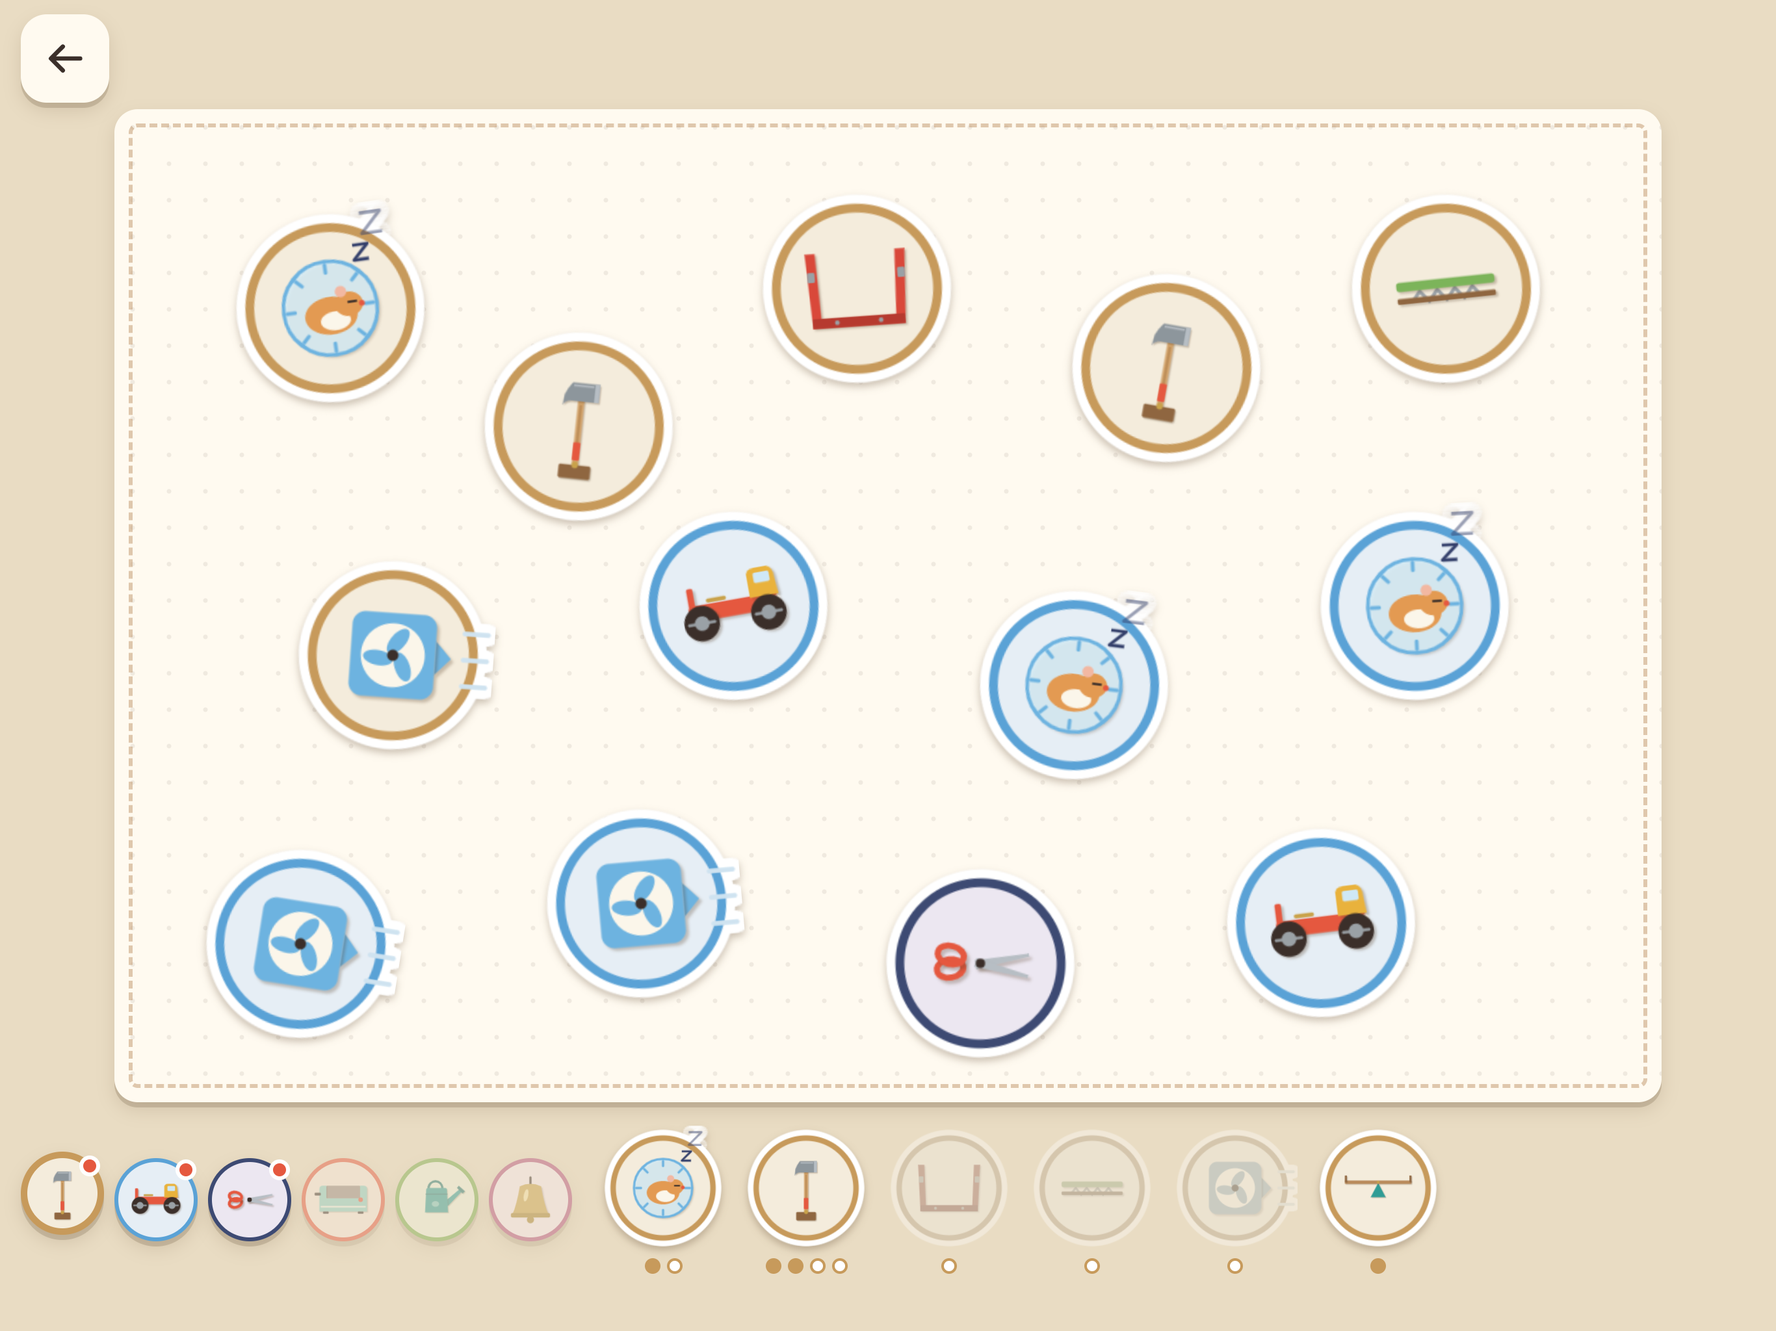
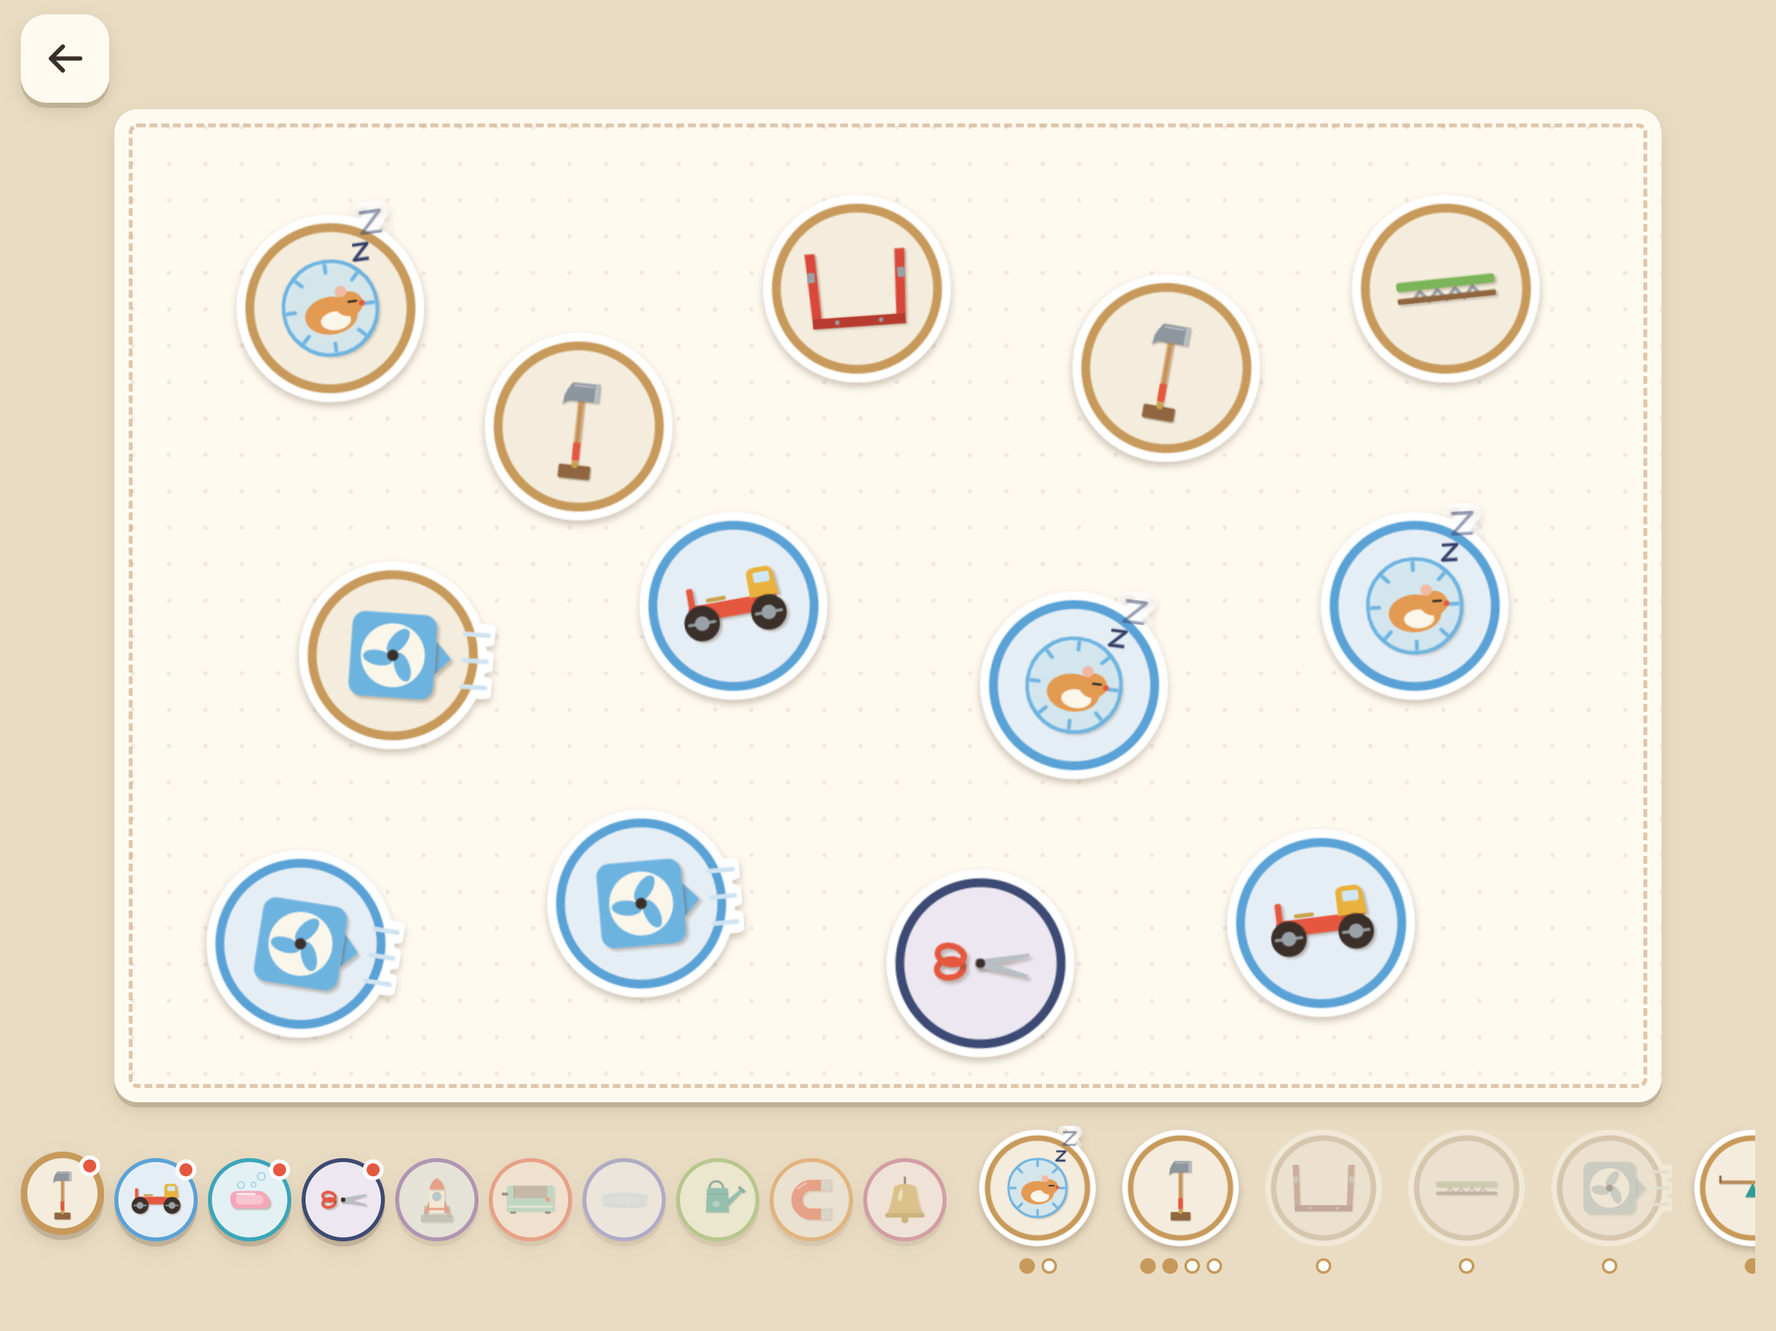
Play timer, and store screenshots for ten rooms and iPhone
- Play timer (Milestone 7 safety): grown-ups pick 15, 20 or 30 minutes in
  Safety. No countdown is shown; when time is up the machine finishes its run
  and the game goes to sleep with a lullaby. Only the PIN (or the hold without
  one) wakes it. Counts only on-screen play, survives a reload, and restarts
  after an hour away. Logic in src/ui/timer.ts with tests.
- Screenshots retaken with the ten rooms, a Space room shot, and a new
  6.9-inch iPhone set (2868x1320) for the App Store.

Changed region(s): [[0.1245, 0.8438, 0.84, 0.9688], [0.8712, 0.8438, 0.9956, 0.9375]]

diff --git a/src/main.ts b/src/main.ts
@@ -14,6 +14,7 @@ import { ScreenLock } from './app-lock';
 import { BOOK_KEY, looseStickers, renderBook } from './ui/book';
 import { Pin } from './ui/pin';
 import { askPin, newPin } from './ui/pinpad';
+import { LIMITS, PlayTimer } from './ui/timer';
 import { guessPlatform, lockGuideHtml, wireLockGuide } from './parents/lock';
 
 const $ = <T extends HTMLElement>(id: string) => document.getElementById(id) as T;
@@ -553,6 +554,7 @@ function buildGrownups() {
     <section class="gu-sec" data-sec="safety">
       <h3>Safety</h3>
       <div id="gu-pin" class="gu-card"></div>
+      <div id="gu-timer" class="gu-card"></div>
       <div class="gu-card" id="gu-lock">
         <h4>Keep your child inside the game</h4>
         <p>No app can stop a child swiping out to the home screen. The tablet itself can: lock it to Bumpity before you hand it over, and only your passcode unlocks it.</p>
@@ -689,6 +691,7 @@ async function openGrownups(sec?: GuSec) {
 function showGrownups(sec?: GuSec) {
   if (!guBuilt) buildGrownups();
   renderSafety();
+  renderTimer();
   renderMade();
   $('map').classList.add('hidden');
   $('grownups').classList.remove('hidden');
@@ -706,11 +709,24 @@ function renderSafety() {
        <p>Right now this corner opens with a press-and-hold on the grown-ups' button, which a child can learn. A 4-digit PIN they don't know keeps them out of here.</p>
        <div class="acts"><button class="text-btn primary" id="pin-set">Set a PIN</button></div>`;
   box.insertAdjacentHTML('beforeend', '<p class="small">The PIN keeps a young child out of the grown-ups\' corner. It isn\'t a lock against grown-ups: it is kept only on this device, and clearing the browser\'s data removes it.</p>');
-  const done = () => { renderSafety(); syncGuButton(); };
+  const done = () => { renderSafety(); renderTimer(); syncGuButton(); };
   const on = (id: string, fn: () => Promise<unknown>) => { const b = document.getElementById(id); if (b) b.onclick = () => fn().then(done); };
   on('pin-set', () => newPin(pin));
   on('pin-change', async () => { if (await askPin(pin, 'Type the PIN you have now')) await newPin(pin, 'Choose a new PIN'); });
   on('pin-off', async () => { if (await askPin(pin, 'Turn the PIN off?')) pin.clear(); });
+}
+
+/** The play timer card in Safety: pick a limit. */
+function renderTimer() {
+  const box = $('gu-timer');
+  const names: Record<number, string> = { 0: 'No limit', 15: '15 minutes', 20: '20 minutes', 30: '30 minutes' };
+  box.innerHTML = `<h4>Play timer <span class="tag${timer.limit ? ' on' : ''}">${timer.limit ? names[timer.limit] : 'Off'}</span></h4>
+    <p>When the time is up, the hamster yawns, the machine finishes its run, and Bumpity goes to sleep with a lullaby. There's no countdown on screen to worry about. Only a grown-up can wake it, from the button in the corner of the sleeping screen.</p>
+    <div class="acts">${LIMITS.map((m) => `<button class="text-btn${m === timer.limit ? ' primary' : ''}" data-limit="${m}">${names[m]}</button>`).join('')}</div>
+    <p class="small">Play time counts only while Bumpity is on the screen. After an hour away it starts again from zero.${pin.isSet ? '' : ' <b>Set a PIN too:</b> without one, the sleeping screen wakes with a press-and-hold, which a child can learn.'}</p>`;
+  box.querySelectorAll<HTMLButtonElement>('[data-limit]').forEach((b) => {
+    b.onclick = () => { timer.setLimit(Number(b.dataset.limit)); renderTimer(); };
+  });
 }
 
 /** The grown-ups' button says "press & hold" only while there's no PIN. */
@@ -1094,6 +1110,59 @@ function startLevel(i: number, custom?: Level, start: Placement[] = []) {
 // ---------- wiring ----------
 document.addEventListener('pointerdown', unlockAudio, { capture: true });
 wireHold($('btn-grownups'), () => { void openGrownups(); }, () => pin.isSet);
+
+// ---------- play timer ----------
+const timer = new PlayTimer();
+const NIGHT = `<svg viewBox="0 0 320 200" aria-hidden="true">
+  <path d="M232 34a38 38 0 1 0 30 62a32 32 0 1 1-30-62z" class="moon"/>
+  ${[[40, 30], [90, 60], [150, 24], [290, 40], [60, 110], [300, 130], [190, 70]].map(([x, y]) => `<circle cx="${x}" cy="${y}" r="3" class="twinkle"/>`).join('')}
+  <ellipse cx="160" cy="176" rx="120" ry="14" class="bed"/>
+  <circle cx="160" cy="148" r="30" class="ball"/>
+  <path d="M146 150q5 4 10 0M164 150q5 4 10 0" class="eye"/>
+  <text x="196" y="118" class="z1">z</text><text x="212" y="98" class="z2">z</text><text x="230" y="76" class="z3">Z</text>
+</svg>`;
+function buildSleep(): HTMLElement {
+  const el = document.createElement('section');
+  el.id = 'sleep';
+  el.className = 'hidden';
+  el.setAttribute('aria-label', 'Bumpity is asleep');
+  el.innerHTML = `${NIGHT}<button id="btn-wake" class="grownups-btn" aria-label="For grown-ups: wake Bumpity">
+    <span class="ring"></span>
+    <svg viewBox="0 0 48 48"><circle cx="17" cy="13" r="5" /><path d="M8 40V28a9 9 0 0 1 18 0v12" /><circle cx="34" cy="22" r="3.5" /><path d="M28 40v-7a6 6 0 0 1 12 0v7" /></svg>
+    <small>Grown-ups</small></button>`;
+  document.body.append(el);
+  wireHold(el.querySelector<HTMLElement>('#btn-wake')!, async () => {
+    if (!(await askPin(pin, 'Wake Bumpity?'))) return;
+    timer.wake();
+    el.classList.add('hidden');
+    showMap();
+  }, () => pin.isSet);
+  return el;
+}
+let sleepEl: HTMLElement | null = null;
+let yawned = false;
+function goToSleep(quiet = false) {
+  timer.sleep();
+  sleepEl ??= buildSleep();
+  sleepEl.classList.remove('hidden');
+  game?.destroy();
+  game = null;
+  stopSpeaking();
+  if (!quiet) { sfx.lullaby(); speak('Bumpity is sleepy. Time for a rest. Night night!'); }
+}
+function timerTick() {
+  const onScreen = document.visibilityState === 'visible' && $('grownups').classList.contains('hidden') && !timer.asleep;
+  if (onScreen) timer.tick(1);
+  if (!timer.timeUp || timer.asleep) return;
+  // Time is up: a yawn first, then sleep as soon as no machine is running.
+  if (!yawned) { yawned = true; sfx.yawn(); }
+  if (game?.mode === 'run') return;
+  yawned = false;
+  goToSleep();
+}
+setInterval(timerTick, 1000);
+document.addEventListener('visibilitychange', () => { if (document.visibilityState === 'visible') timer.welcomeBack(); });
+if (timer.asleep) goToSleep(true);
 syncGuButton();
 $('btn-gu-close').onclick = hideGrownups;
 $('btn-book').onclick = showBook;

diff --git a/src/ui/timer.ts b/src/ui/timer.ts
@@ -1,0 +1,74 @@
+// The play timer. A grown-up picks a limit (15, 20 or 30 minutes, or none). Play time counts
+// only while the game is on screen and the grown-ups' corner is closed. When it runs out the
+// game goes to sleep, and only a grown-up (the PIN, or the press-and-hold without one) wakes it.
+// No countdown is ever shown to the child. Kept on this device, like everything else.
+
+export const TIMER_KEY = 'tinker.timer';
+/** Limits a grown-up can choose, in minutes (0: no limit). */
+export const LIMITS = [0, 15, 20, 30] as const;
+/** After this long away from the game, the next visit starts a fresh play time. */
+export const FRESH_AFTER_MS = 60 * 60 * 1000;
+
+interface Saved { limit: number; played: number; asleep: boolean; seen: number }
+
+export class PlayTimer {
+  /** Minutes allowed (0: no limit). */
+  limit = 0;
+  /** Seconds played since the last wake-up or fresh start. */
+  played = 0;
+  asleep = false;
+  /** When the game was last on screen (ms since 1970). */
+  seen = 0;
+
+  constructor(private store: Pick<Storage, 'getItem' | 'setItem'> | null = safeStorage(), now = Date.now()) {
+    try {
+      const v = JSON.parse(this.store?.getItem(TIMER_KEY) ?? 'null') as Partial<Saved> | null;
+      if (v && typeof v === 'object') {
+        if ((LIMITS as readonly number[]).includes(Number(v.limit))) this.limit = Number(v.limit);
+        if (Number.isFinite(v.played) && v.played! >= 0) this.played = v.played!;
+        this.asleep = v.asleep === true;
+        if (Number.isFinite(v.seen)) this.seen = v.seen!;
+      }
+    } catch { /* a broken value: start fresh */ }
+    this.welcomeBack(now);
+  }
+
+  /** Coming back after a long break starts a fresh play time (but a sleeping game stays asleep). */
+  welcomeBack(now = Date.now()) {
+    if (!this.asleep && this.seen && now - this.seen > FRESH_AFTER_MS) this.played = 0;
+    this.seen = now;
+    this.save();
+  }
+
+  /** Count `seconds` of play. Returns true when the time has just run out. */
+  tick(seconds: number, now = Date.now()): boolean {
+    this.seen = now;
+    if (!this.limit || this.asleep) { this.save(); return false; }
+    const before = this.played;
+    this.played += seconds;
+    this.save();
+    return before < this.limit * 60 && this.played >= this.limit * 60;
+  }
+
+  get timeUp() { return !!this.limit && this.played >= this.limit * 60; }
+
+  sleep() { this.asleep = true; this.save(); }
+
+  /** A grown-up woke the game: a fresh play time starts. */
+  wake() { this.asleep = false; this.played = 0; this.save(); }
+
+  setLimit(minutes: number) {
+    if (!(LIMITS as readonly number[]).includes(minutes)) return;
+    this.limit = minutes;
+    this.played = 0;
+    this.save();
+  }
+
+  private save() {
+    try { this.store?.setItem(TIMER_KEY, JSON.stringify({ limit: this.limit, played: Math.round(this.played), asleep: this.asleep, seen: this.seen } satisfies Saved)); } catch { /* private mode */ }
+  }
+}
+
+function safeStorage() {
+  try { return globalThis.localStorage ?? null; } catch { return null; }
+}

diff --git a/tests/timer.test.ts b/tests/timer.test.ts
@@ -1,0 +1,65 @@
+import { describe, expect, test } from 'vitest';
+import { FRESH_AFTER_MS, PlayTimer, TIMER_KEY } from '../src/ui/timer';
+
+const memory = () => {
+  const m = new Map<string, string>();
+  return { getItem: (k: string) => m.get(k) ?? null, setItem: (k: string, v: string) => void m.set(k, v), m };
+};
+
+describe('play timer', () => {
+  test('has no limit until a grown-up picks one', () => {
+    const t = new PlayTimer(memory(), 0);
+    expect(t.tick(3600, 1)).toBe(false);
+    expect(t.timeUp).toBe(false);
+  });
+
+  test('runs out once, at the chosen limit', () => {
+    const t = new PlayTimer(memory(), 0);
+    t.setLimit(15);
+    expect(t.tick(14 * 60, 1)).toBe(false);
+    expect(t.tick(60, 2)).toBe(true);
+    expect(t.tick(1, 3)).toBe(false);
+    expect(t.timeUp).toBe(true);
+  });
+
+  test('stays asleep after the game is closed and opened again, until a grown-up wakes it', () => {
+    const s = memory();
+    const t = new PlayTimer(s, 0);
+    t.setLimit(20);
+    t.tick(20 * 60, 1000);
+    t.sleep();
+    const again = new PlayTimer(s, 1000 + 2 * FRESH_AFTER_MS);
+    expect(again.asleep).toBe(true);
+    again.wake();
+    expect(again.asleep).toBe(false);
+    expect(again.played).toBe(0);
+  });
+
+  test('remembers play time across a reload, but starts fresh after a long break', () => {
+    const s = memory();
+    const t = new PlayTimer(s, 0);
+    t.setLimit(30);
+    t.tick(10 * 60, 1000);
+    expect(new PlayTimer(s, 2000).played).toBe(600);
+    expect(new PlayTimer(s, 2000 + FRESH_AFTER_MS + 1).played).toBe(0);
+  });
+
+  test('changing the limit starts the time again, and odd limits are ignored', () => {
+    const t = new PlayTimer(memory(), 0);
+    t.setLimit(15);
+    t.tick(600, 1);
+    t.setLimit(20);
+    expect(t.played).toBe(0);
+    t.setLimit(7);
+    expect(t.limit).toBe(20);
+  });
+
+  test('ignores a broken saved value', () => {
+    const s = memory();
+    s.setItem(TIMER_KEY, '{nope');
+    expect(new PlayTimer(s, 0).limit).toBe(0);
+    s.setItem(TIMER_KEY, JSON.stringify({ limit: 999, played: -5, asleep: 'yes' }));
+    const t = new PlayTimer(s, 0);
+    expect([t.limit, t.played, t.asleep]).toEqual([0, 0, false]);
+  });
+});

diff --git a/src/style.css b/src/style.css
@@ -899,3 +899,31 @@ svg .fill { fill: currentColor; stroke: none; }
 .clear:disabled { opacity: 0.4; }
 .clear.sure { background: #f6c9bf; animation: nudge 0.3s ease-in-out 2; }
 .clear.sure .bin { fill: var(--stop); }
+
+/* ---------- play timer: the sleeping screen ---------- */
+#sleep {
+  position: fixed; inset: 0; z-index: 55;
+  display: grid; place-items: center;
+  background: radial-gradient(ellipse at 50% 30%, #3d4a73, #1f2747 70%);
+  padding: 24px;
+}
+#sleep.hidden { display: none; }
+#sleep > svg { width: min(90vw, 140dvh); height: auto; }
+#sleep .moon { fill: #f6d65b; stroke: none; }
+#sleep .moon, #sleep .twinkle, #sleep .bed, #sleep text { stroke: none; }
+#sleep .twinkle { fill: #fbf6ea; animation: twinkle 3s ease-in-out infinite; }
+#sleep .twinkle:nth-of-type(2n) { animation-delay: 1.4s; }
+#sleep .bed { fill: #6a72c9; opacity: 0.6; }
+#sleep .ball { fill: rgba(207, 232, 246, 0.35); stroke: #cfe8f6; stroke-width: 3; }
+#sleep .eye { fill: none; stroke: #fbf6ea; stroke-width: 3; stroke-linecap: round; }
+#sleep text { fill: #cfe8f6; font: 700 22px Nunito, sans-serif; animation: drift 3s ease-in-out infinite; }
+#sleep .z2 { animation-delay: 0.6s; font-size: 26px; }
+#sleep .z3 { animation-delay: 1.2s; font-size: 32px; }
+#sleep #btn-wake {
+  position: absolute;
+  top: calc(env(safe-area-inset-top) + 12px); right: calc(env(safe-area-inset-right) + 12px);
+  opacity: 0.85;
+}
+@keyframes twinkle { 50% { opacity: 0.3; } }
+@keyframes drift { 50% { transform: translateY(-6px); opacity: 0.6; } }
+

diff --git a/src/ui/audio.ts b/src/ui/audio.ts
@@ -138,6 +138,13 @@ export const sfx = {
   puff: () => { noise(0.18, 0.3, 'lowpass', 380); tone(110, 0.12, 'sine', 0.12, 0, 70); },
   /** A rocket taking off: a rising roar and a whistle. */
   blast: () => { noise(0.9, 0.35, 'bandpass', 700, 0.8); tone(300, 0.7, 'triangle', 0.08, 0, 1200); },
+  /** The hamster yawning: a slow slide down. */
+  yawn: () => { tone(520, 0.9, 'sine', 0.14, 0, 260); tone(780, 0.6, 'sine', 0.04, 0.1, 390); },
+  /** A short, slow lullaby on the xylophone's notes, for going to sleep. */
+  lullaby: () => {
+    const notes: [number, number][] = [[784, 0], [659, 0.6], [784, 1.2], [659, 1.8], [587, 2.4], [523, 3.3], [587, 3.9], [523, 4.5]];
+    for (const [f, at] of notes) { tone(f, 1.1, 'sine', 0.16, at); tone(f * 2, 0.3, 'sine', 0.03, at); }
+  },
   hmm: () => { tone(330, 0.25, 'sine', 0.18); tone(262, 0.35, 'sine', 0.18, 0.22); },
   /** A musical part: a wooden xylophone note, the bell, or the drum. */
   note: (n: Note) => {

diff --git a/docs/roadmap.md b/docs/roadmap.md
@@ -128,9 +128,10 @@ Safety first, then the wrapper, then the paperwork. The order inside each part i
   - It guards the grown-ups' corner, and is asked again before clearing progress or changing the PIN. The play timer below will use the same pad.
   - The number pad shows digits (it's for grown-ups), rests after 3 wrong tries, and a forgotten PIN can be reset with a sum in words a young child can't do yet.
 - **A tidier grown-ups' corner: done.** The one long page became five short sections (Safety, Play together, Talk cards by room, Made here, Settings), with talk cards closed to one line until tapped, and printing by room.
-- **Play timer that winds down (second):**
-  - The parent picks 15, 20 or 30 minutes, or no limit.
-  - No countdown is shown. When time is up, the hamster yawns, the machine finishes its run, the room "goes to sleep" with a lullaby, and only the PIN wakes it.
+- **Play timer that winds down (second): done.**
+  - The parent picks 15, 20 or 30 minutes, or no limit, in the corner's Safety section.
+  - No countdown is shown. When time is up, a yawn plays, the machine finishes its run, and the game "goes to sleep" (a night sky, a sleeping hamster ball and a lullaby). Only a grown-up wakes it: the PIN, or the press-and-hold without one.
+  - Play time counts only while the game is on screen and the corner is closed. It survives a reload (so closing the app doesn't reset it), and starts again from zero after an hour away. A sleeping game stays asleep until a grown-up wakes it.
 - **Staying inside the game (third):**
   - An app can't stop the home swipe on an iPad. The real lock is the device's own: **Guided Access** on iPad (triple-click the side button; leaving needs the parent's passcode) and **screen pinning** on Android.
   - Done: a first-launch card for parents, "Before you hand it over", and step-by-step pictures for both in the corner's Safety section.

diff --git a/docs/release-prep.md b/docs/release-prep.md
@@ -40,9 +40,10 @@ This is a search, not legal clearance. Before paying for the store accounts:
 node scripts/make-logo.mjs
 ```
 
-## 4. Screenshots: done for iPad and Google Play
+## 4. Screenshots: done for iPad, iPhone and Google Play
 - Seven pictures in each size, in [store/screenshots](../store/screenshots): the rooms, a machine running, building, a win with the film strip, the sticker book, the toy box, and the grown-ups' corner.
   - `ipad-2732x2048`: the App Store's 13-inch iPad size, landscape.
+  - `iphone-2868x1320`: the App Store's 6.9-inch iPhone size, landscape (the phone layout).
   - `play-2560x1440`: 16:9 landscape, which Google Play takes for phones and for 7- and 10-inch tablets.
 - The level and room pictures are now drawn at the screen's pixel density, so they're sharp on the iPad itself as well as in the screenshots.
 - To take them again (for example after the art pass), build the game and serve it with `npm run preview`, then run the script below. It uses the installed Edge or Chrome:
@@ -51,5 +52,4 @@ node scripts/make-logo.mjs
 node scripts/store-shots.mjs
 ```
 
-- **Not made:** iPhone screenshots. The game is designed for the iPad. If the store app also runs on iPhones, Apple needs a 6.9-inch iPhone set as well (2868×1320 landscape), and the game should get a playtest on a phone screen first.
-- The stores also want an app icon at 1024×1024 with no transparency, and Google wants a 1024×500 feature graphic. Neither exists yet.
+- The store icons (1024×1024 for Apple, 512×512 for Google) and Google's 1024×500 feature graphic are in [store](../store), made by `node scripts/store-graphics.mjs`.

diff --git a/docs/launch-checklist.md b/docs/launch-checklist.md
@@ -36,8 +36,8 @@ $4.99 at launch then $5.99, pre-orders in January 2027, launch around February 2
 - [x] Google Play feature graphic: 1024×500.
 - [x] Store listing text for both stores: name, subtitle, short and long descriptions, keywords, age rating and privacy answers ([store-listing.md](store-listing.md)).
 - [x] Android release build workflow (signed `.aab`), waiting only for your key.
-- [ ] Retake all store screenshots with the ten rooms, and add the iPhone sizes Apple needs (6.9-inch, 2868×1320, landscape), since the app runs on iPhones.
-- [ ] **Play timer** (the last safety item in Milestone 7): the room winds down to sleep after 15, 20 or 30 minutes, and only the PIN wakes it. It's a big part of the "calm by design" promise, so it should be in version 1.0.
+- [x] Retake all store screenshots with the ten rooms, and add the iPhone size Apple needs (6.9-inch, 2868×1320, landscape), since the app runs on iPhones.
+- [x] **Play timer** (the last safety item in Milestone 7): the room winds down to sleep after 15, 20 or 30 minutes, and only the PIN wakes it. It's a big part of the "calm by design" promise, so it should be in version 1.0.
 - [ ] **Web taster build** (Workshop, toy box and puzzle maker only), ready but switched off until pre-orders open.
 - [ ] A "The whole game" section and store badges in the grown-ups' corner, behind the PIN. Shown only once the store pages exist.
 
